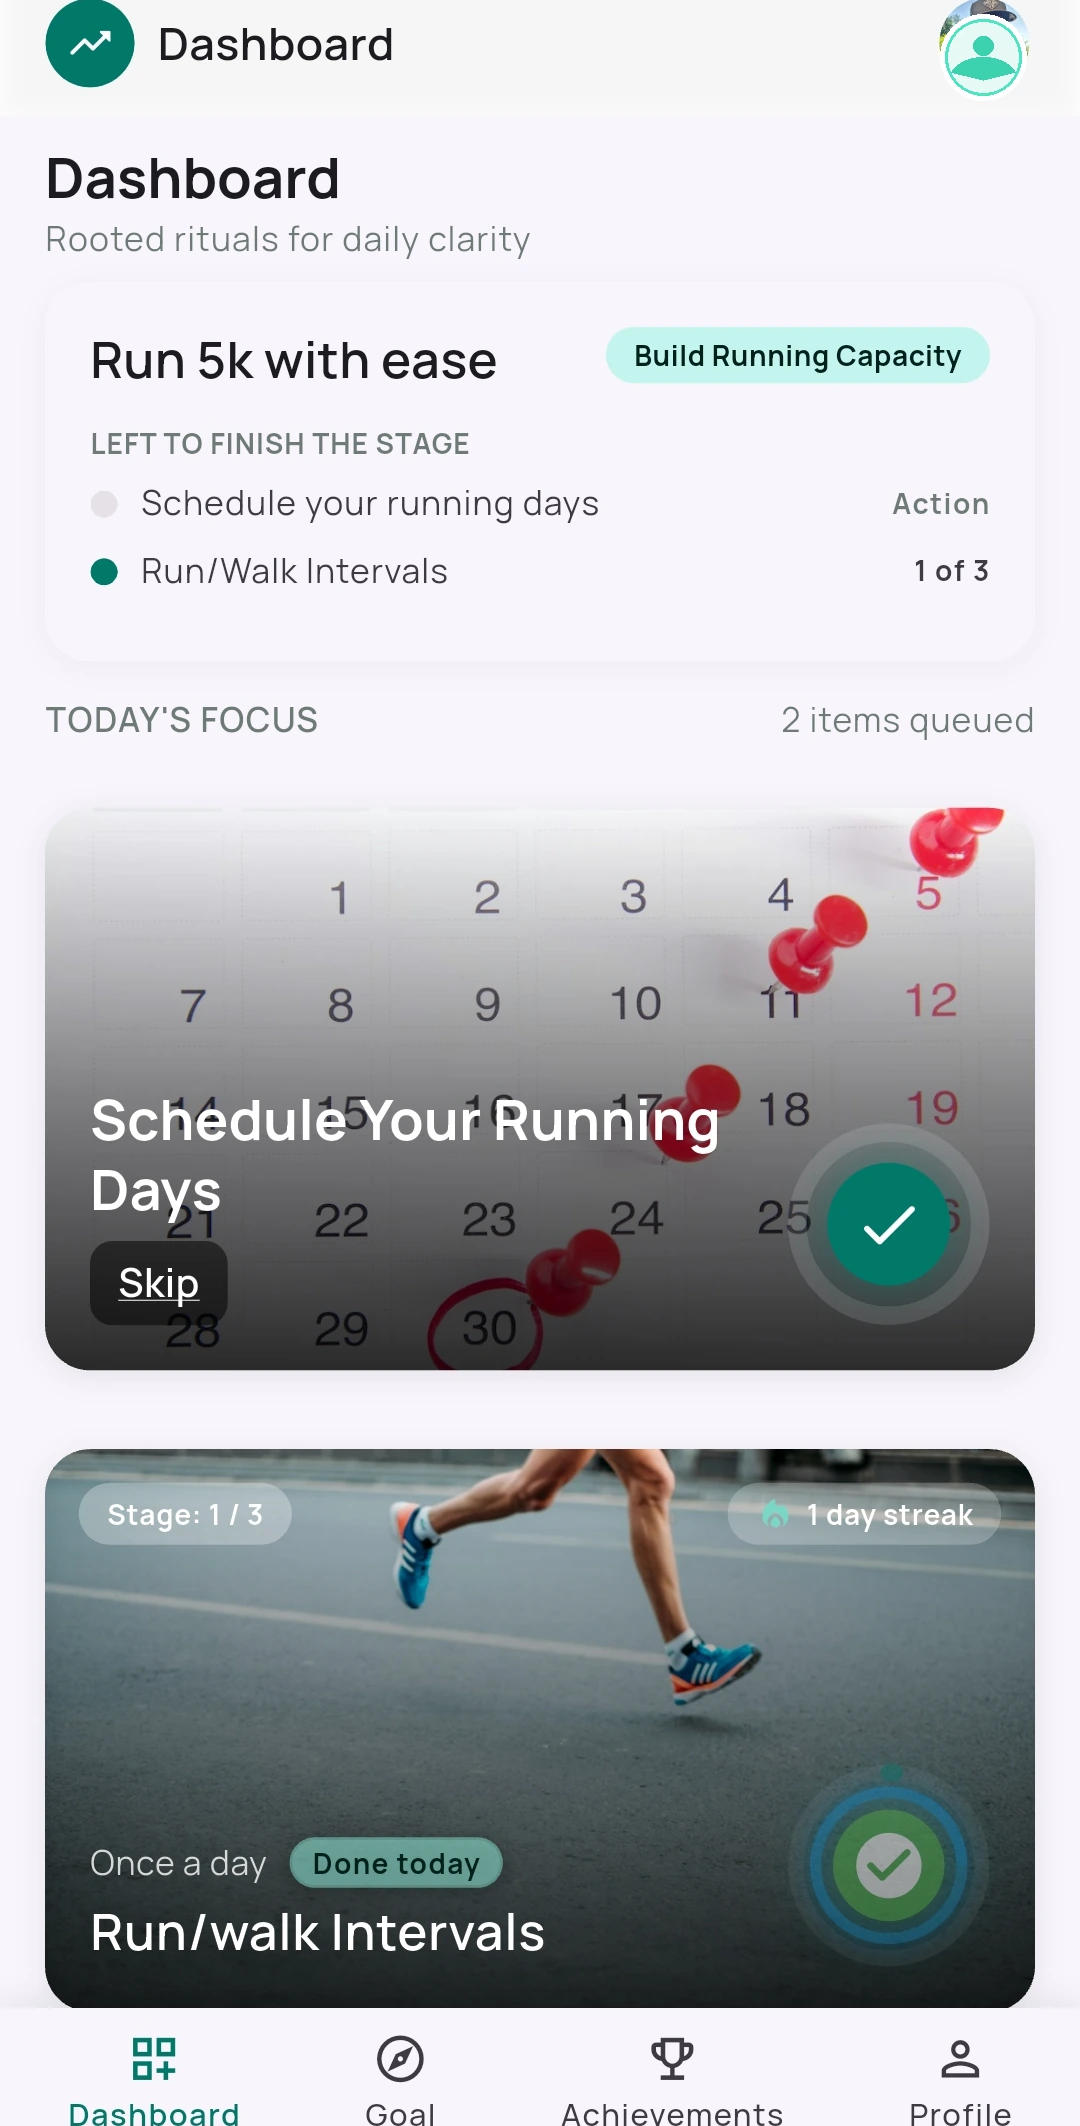
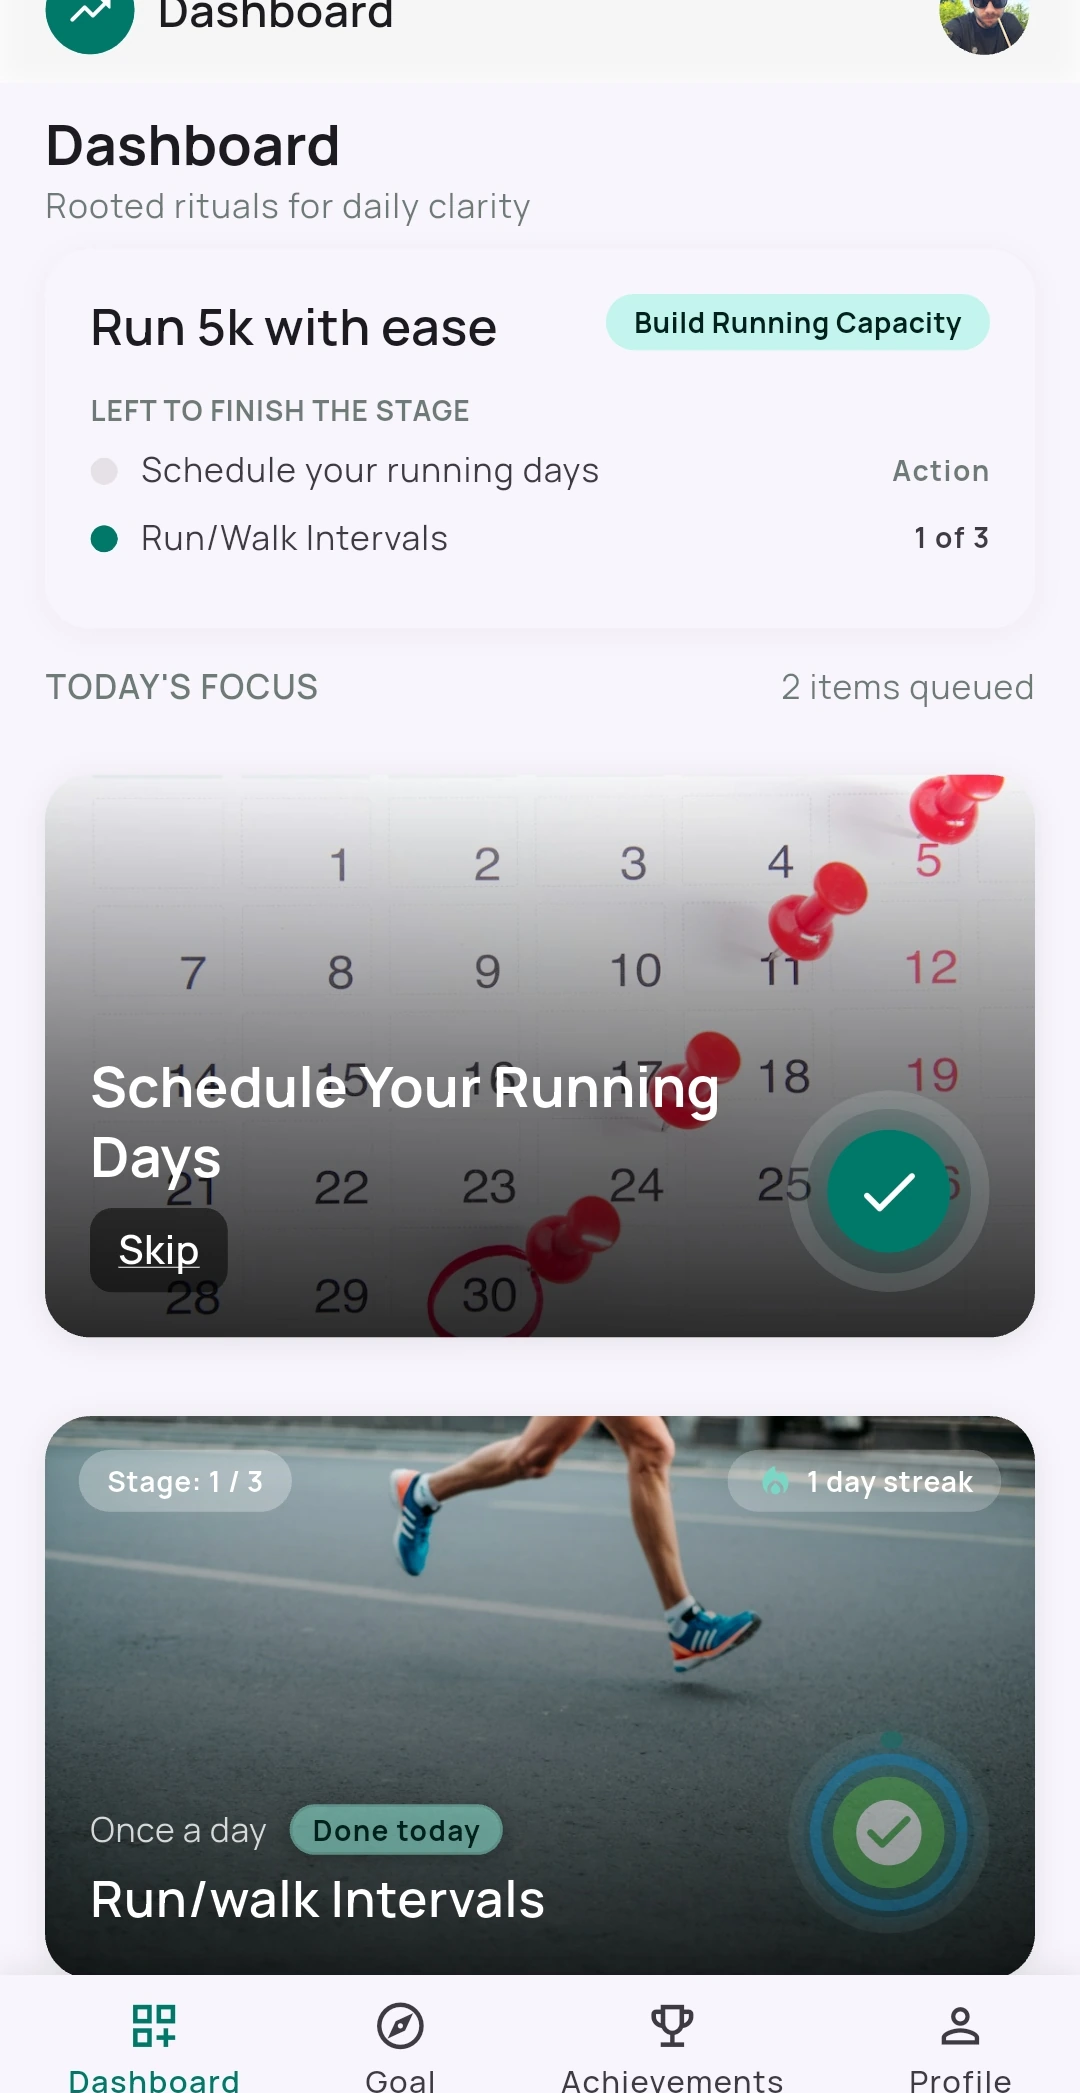
Landing: visible-by-default reveals, crop hero screenshot
- Scroll-reveal: content defaults to visible; hidden state only when JS
  adds html.reveal-enhanced; skip observer when unavailable.
- Hero crop: dashboard_today.webp starts below app bar (no avatar row).

diff --git a/assets/css/styles.css b/assets/css/styles.css
@@ -84,41 +84,87 @@ body > * {
     position: relative;
 }
 
-/* Scroll Animation Classes */
-.fade-in {
-    opacity: 0;
-    transform: translateY(40px);
-    transition: opacity 0.8s cubic-bezier(0.4, 0, 0.2, 1), 
+/* Scroll Animation Classes — default visible; hidden state only with .reveal-enhanced (JS) */
+.fade-in,
+.fade-in-left,
+.fade-in-right {
+    opacity: 1;
+    transform: none;
+    transition: opacity 0.8s cubic-bezier(0.4, 0, 0.2, 1),
                 transform 0.8s cubic-bezier(0.4, 0, 0.2, 1);
 }
 
-.fade-in.visible {
+html.reveal-enhanced .fade-in:not(.visible) {
+    opacity: 0;
+    transform: translateY(40px);
+}
+
+html.reveal-enhanced .fade-in.visible {
     opacity: 1;
     transform: translateY(0);
 }
 
-.fade-in-left {
+html.reveal-enhanced .fade-in-left:not(.visible) {
     opacity: 0;
     transform: translateX(-40px);
-    transition: opacity 0.8s cubic-bezier(0.4, 0, 0.2, 1), 
-                transform 0.8s cubic-bezier(0.4, 0, 0.2, 1);
 }
 
-.fade-in-left.visible {
+html.reveal-enhanced .fade-in-left.visible {
     opacity: 1;
     transform: translateX(0);
 }
 
-.fade-in-right {
+html.reveal-enhanced .fade-in-right:not(.visible) {
     opacity: 0;
     transform: translateX(40px);
-    transition: opacity 0.8s cubic-bezier(0.4, 0, 0.2, 1), 
-                transform 0.8s cubic-bezier(0.4, 0, 0.2, 1);
 }
 
-.fade-in-right.visible {
+html.reveal-enhanced .fade-in-right.visible {
     opacity: 1;
     transform: translateX(0);
+}
+
+/* Full-page screenshot mode (hash #qa-screenshots): no motion, everything on */
+html.qa-screenshots .fade-in,
+html.qa-screenshots .fade-in.visible,
+html.qa-screenshots .fade-in-left,
+html.qa-screenshots .fade-in-left.visible,
+html.qa-screenshots .fade-in-right,
+html.qa-screenshots .fade-in-right.visible {
+    opacity: 1 !important;
+    transform: none !important;
+    transition: none !important;
+}
+
+html.qa-screenshots .hero h1,
+html.qa-screenshots .hero .tagline,
+html.qa-screenshots .hero-bullets,
+html.qa-screenshots .hero-screenshot {
+    animation: none !important;
+    opacity: 1 !important;
+    transform: none !important;
+}
+
+@media (prefers-reduced-motion: reduce) {
+    .fade-in,
+    .fade-in.visible,
+    .fade-in-left,
+    .fade-in-left.visible,
+    .fade-in-right,
+    .fade-in-right.visible {
+        opacity: 1 !important;
+        transform: none !important;
+        transition: none !important;
+    }
+
+    .hero h1,
+    .hero .tagline,
+    .hero-bullets,
+    .hero-screenshot {
+        animation: none !important;
+        opacity: 1 !important;
+        transform: none !important;
+    }
 }
 
 /* Hero Section */

diff --git a/index.html b/index.html
@@ -1,6 +1,16 @@
 <!DOCTYPE html>
 <html lang="en">
 <head>
+    <script>
+        /* Progressive enhancement: hidden “reveal” states only when IntersectionObserver exists */
+        if (typeof IntersectionObserver !== 'undefined') {
+            document.documentElement.classList.add('reveal-enhanced');
+        }
+        /* Headless / QA: hash #qa-screenshots forces final state for full-page captures */
+        if (window.location.hash === '#qa-screenshots') {
+            document.documentElement.classList.add('qa-screenshots');
+        }
+    </script>
     <meta charset="UTF-8">
     <meta name="viewport" content="width=device-width, initial-scale=1.0">
     <meta name="description" content="Pick a goal. Follow clear stages. Know what to do today. FlareHabit builds habits around a real goal — without XP, levels, or RPG noise.">
@@ -314,22 +324,26 @@
     <script defer src='https://static.cloudflareinsights.com/beacon.min.js' data-cf-beacon='{"token": "8c1defb1598f44739b639f7ddd36fdc7"}'></script>
     <!-- End Cloudflare Web Analytics -->
     
-    <!-- Scroll Animation Script -->
+    <!-- Scroll Animation Script — enhancement only: no-op if IntersectionObserver unavailable -->
     <script>
-        const observerOptions = {
-            threshold: 0.1,
-            rootMargin: '0px 0px -100px 0px'
-        };
-
-        const observer = new IntersectionObserver((entries) => {
-            entries.forEach(entry => {
-                if (entry.isIntersecting) {
-                    entry.target.classList.add('visible');
-                }
-            });
-        }, observerOptions);
-
         document.addEventListener('DOMContentLoaded', () => {
+            if (typeof IntersectionObserver === 'undefined') {
+                return;
+            }
+
+            const observerOptions = {
+                threshold: 0.1,
+                rootMargin: '0px 0px -100px 0px'
+            };
+
+            const observer = new IntersectionObserver((entries) => {
+                entries.forEach(entry => {
+                    if (entry.isIntersecting) {
+                        entry.target.classList.add('visible');
+                    }
+                });
+            }, observerOptions);
+
             const sections = document.querySelectorAll('section:not(.hero)');
             sections.forEach((section) => {
                 section.classList.add('fade-in');
